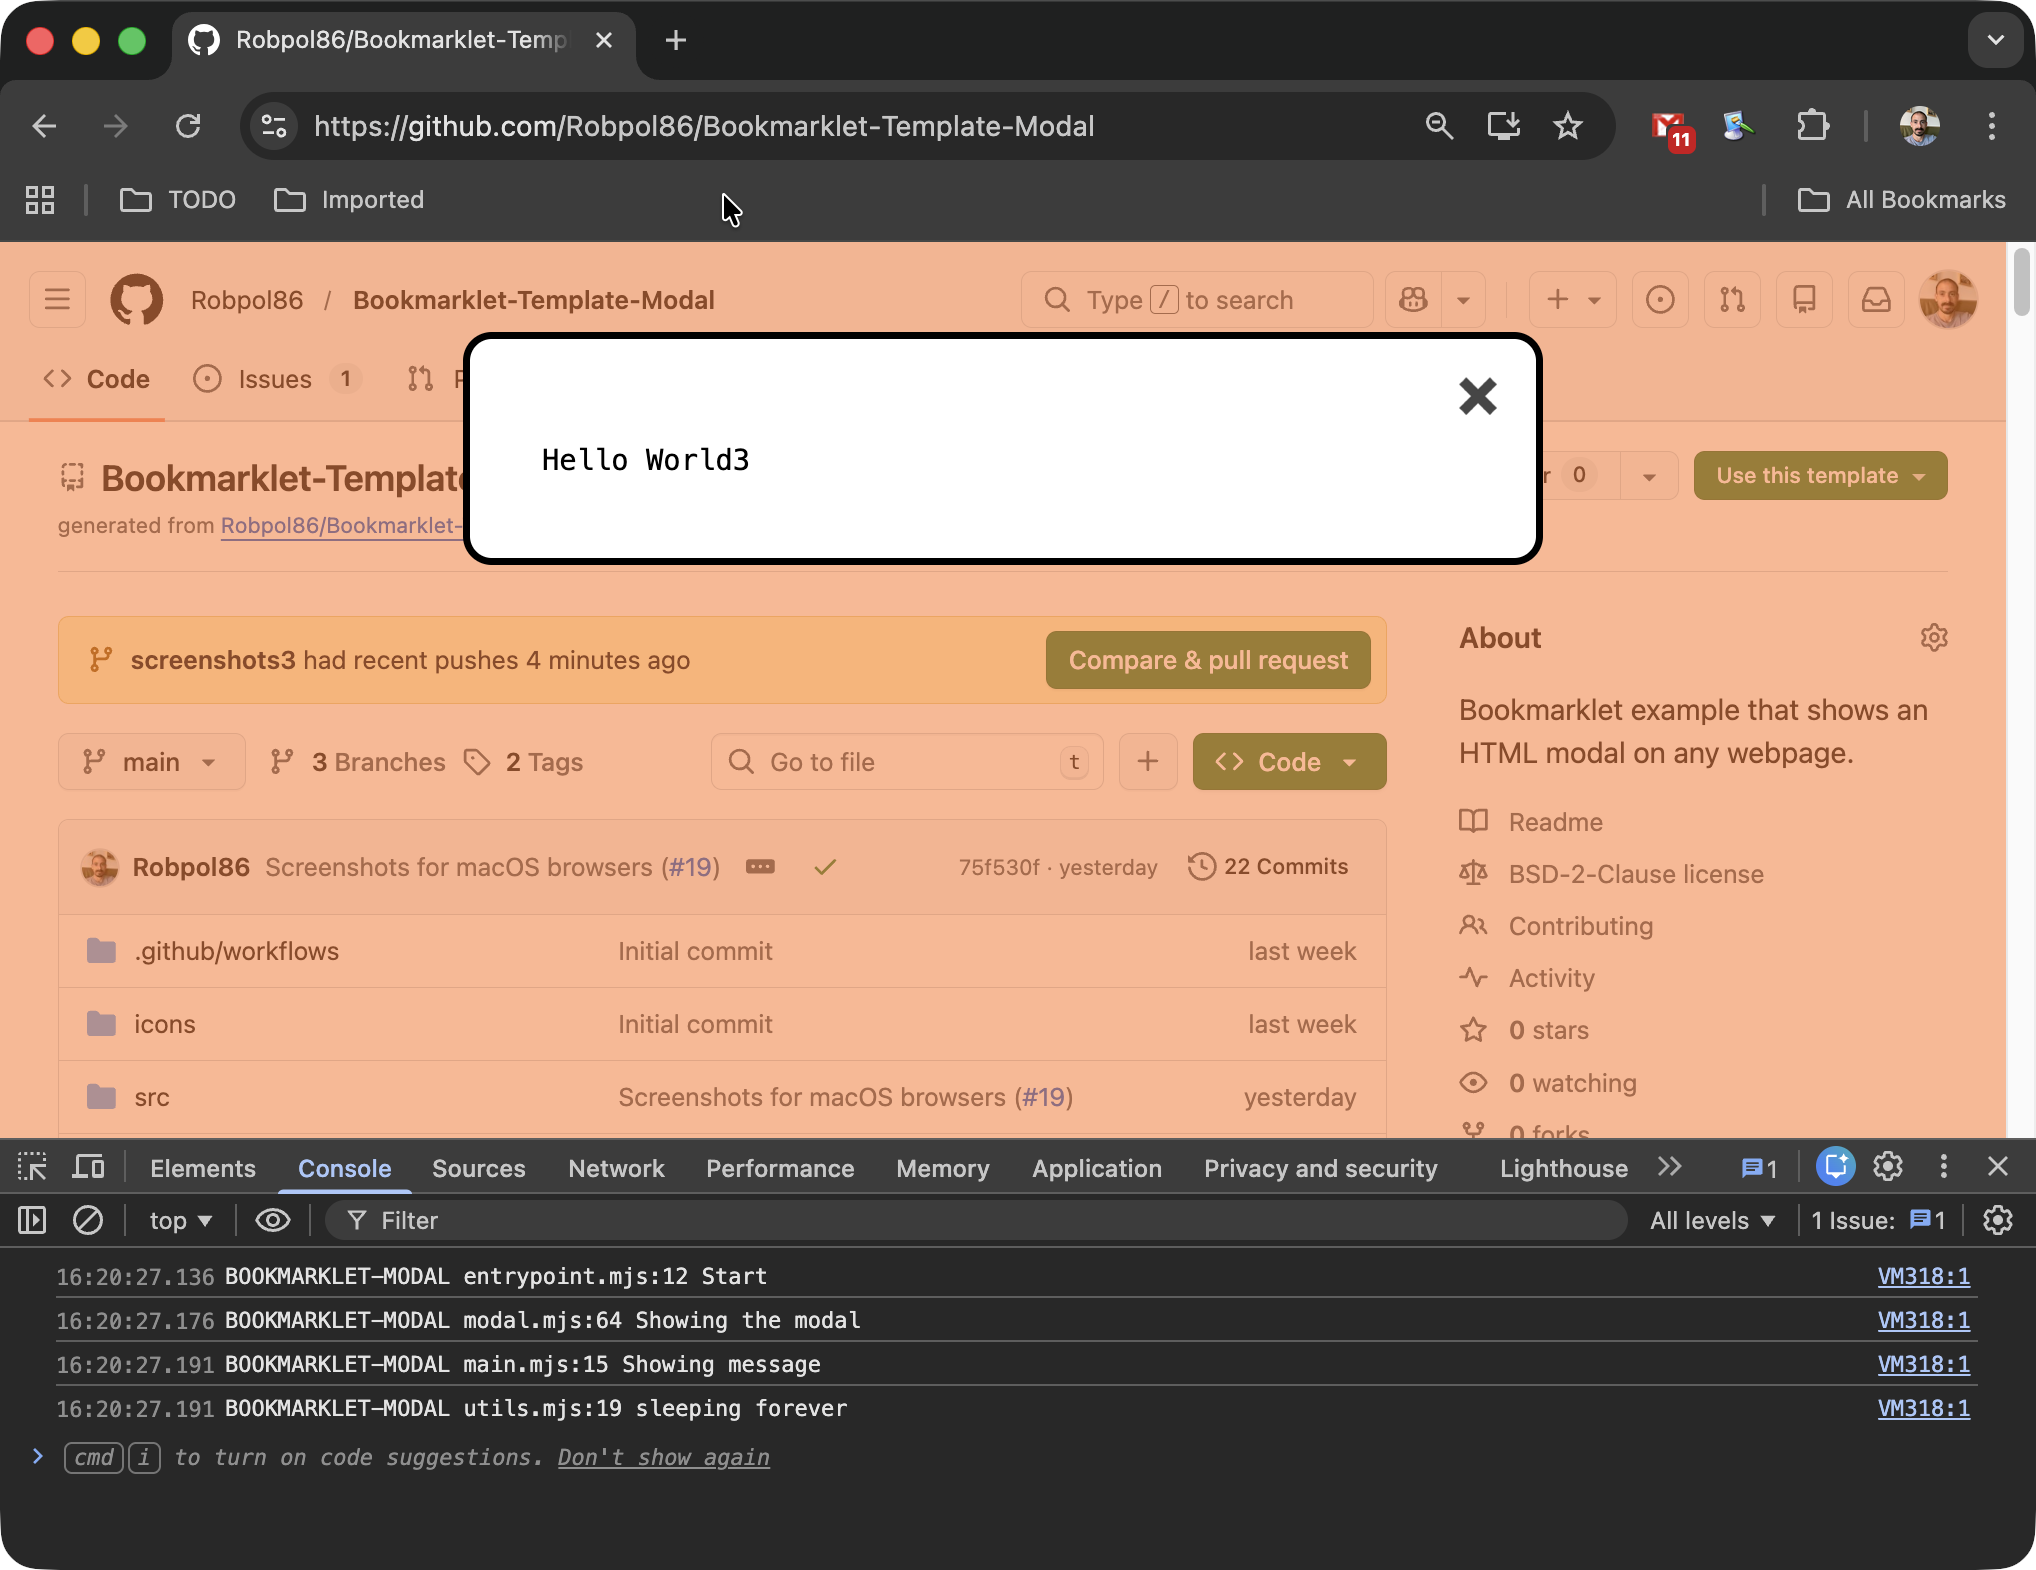
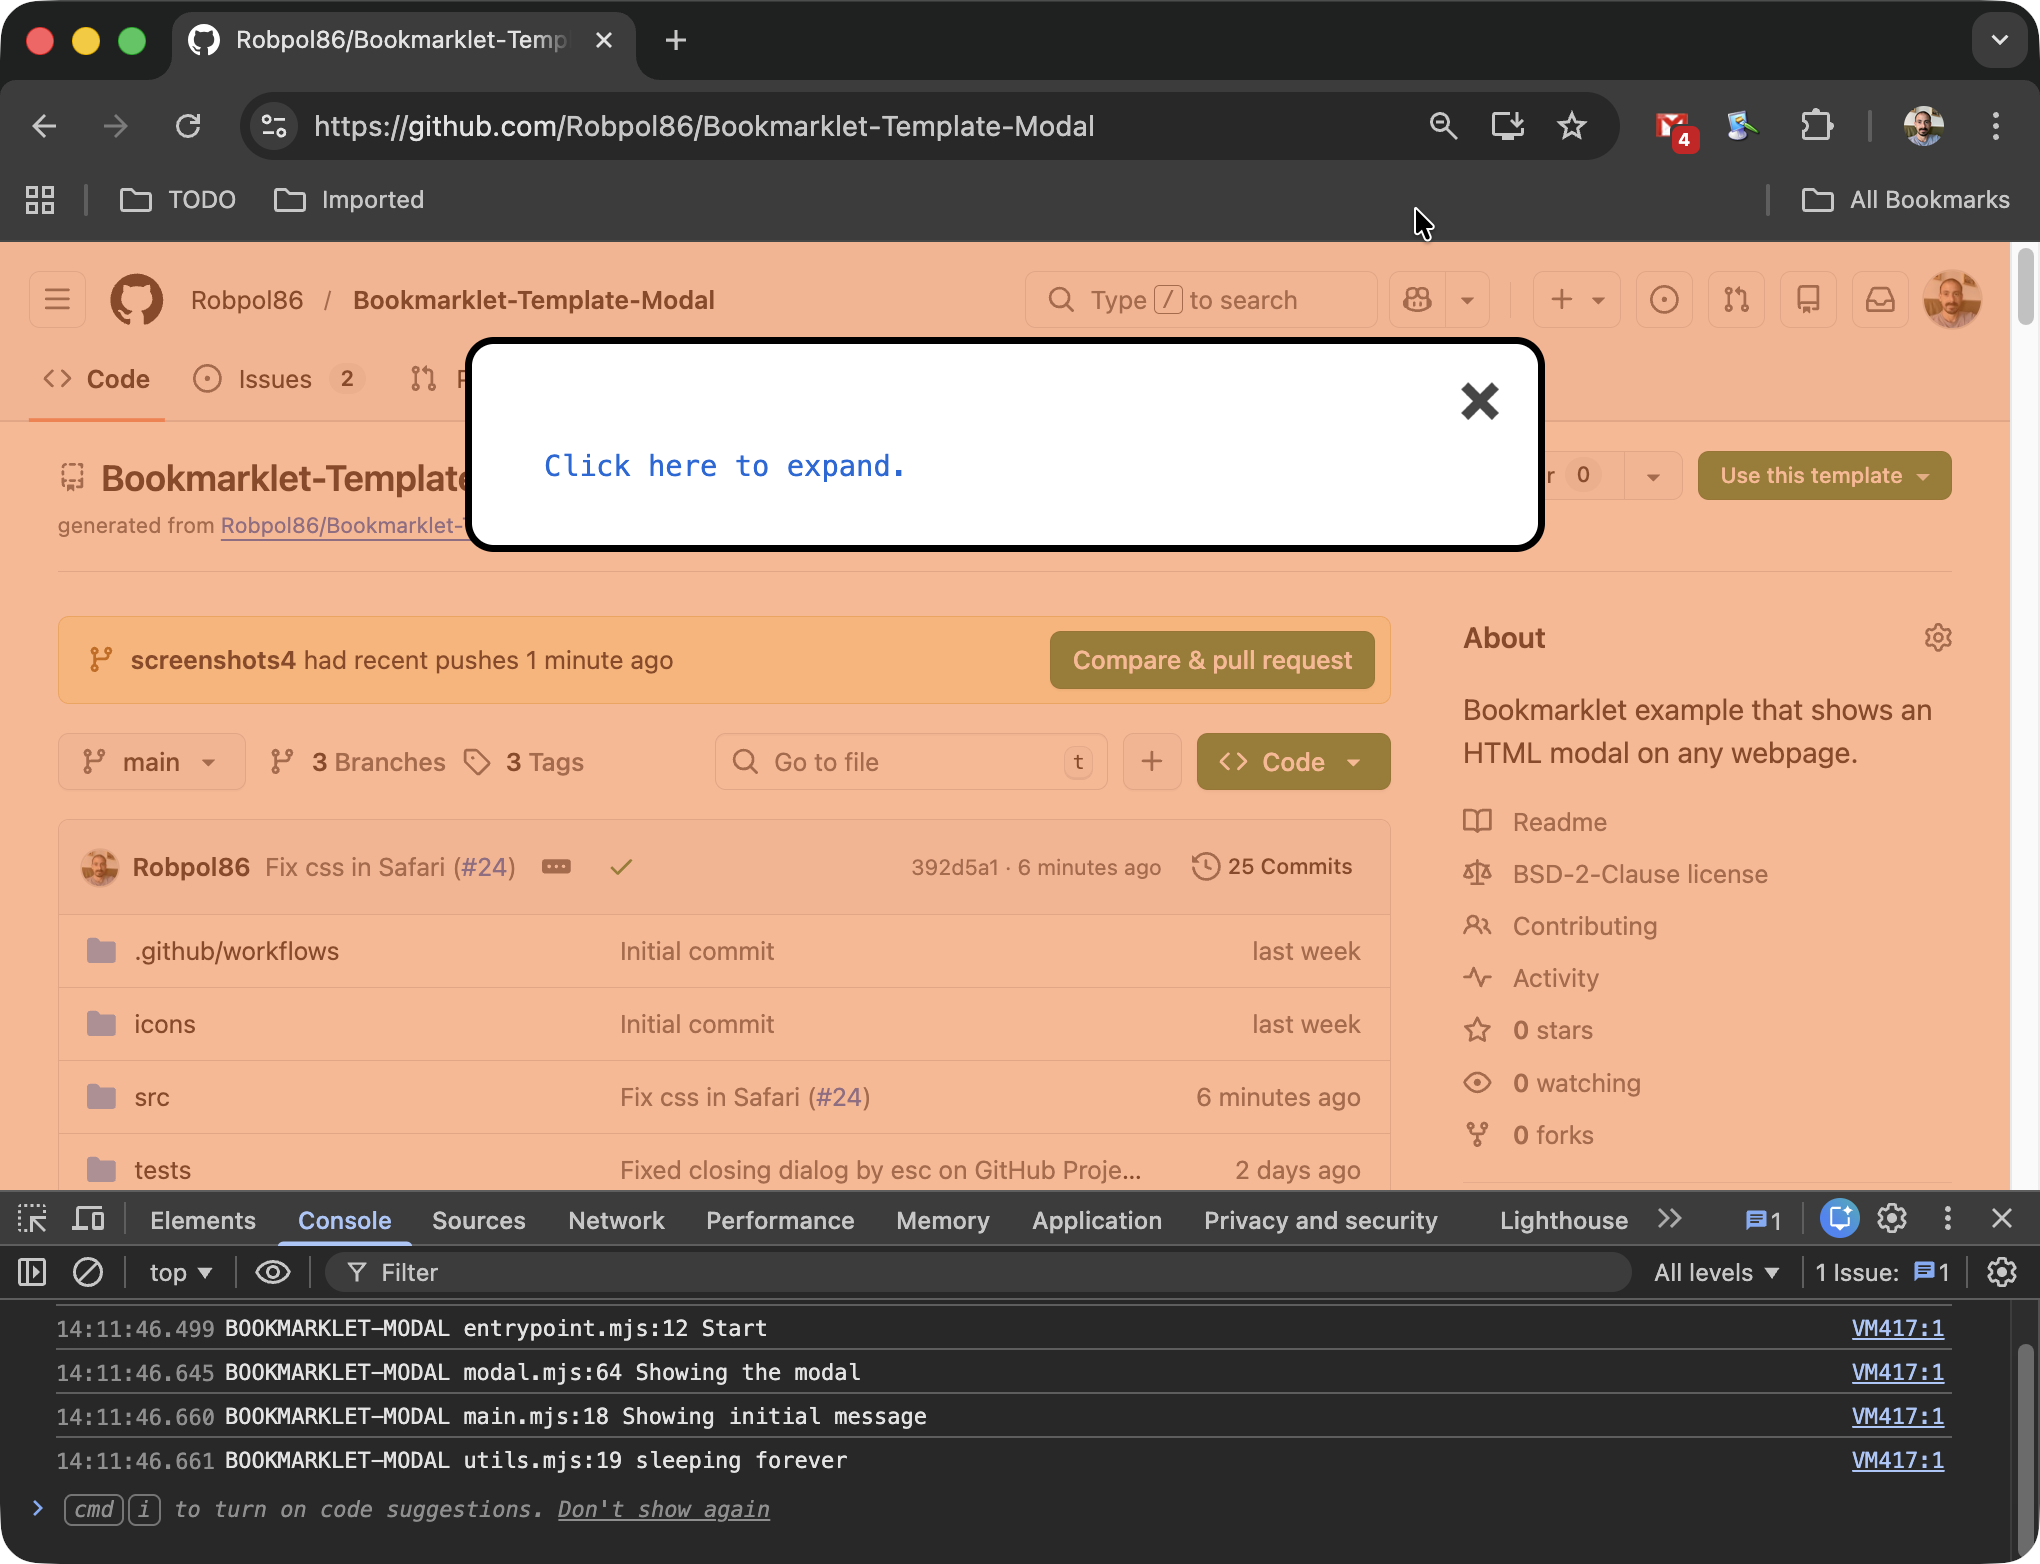
Updating all screenshots; renaming (#25)
* Renaming for ellipses

* New desktop screenshots

* iPhone gif

* br

* Android

* new gif

* new ss

* done with todos, not doing codecov

diff --git a/README.md b/README.md
@@ -9,12 +9,14 @@ This is how I structure all my one-off [bookmarklets](https://en.wikipedia.org/w
         <td width="50%">
             <div align="center">
                 <img src="used-in-chrome-macos.png" alt="Used in Chrome on macOS" />
+                <br>
                 <em>Used in Chrome on macOS</em>
             </div>
         </td>
         <td width="50%">
             <div align="center">
                 <img src="used-in-firefox-macos.png" alt="Used in Firefox on macOS" />
+                <br>
                 <em>Used in Firefox on macOS</em>
             </div>
         </td>
@@ -23,12 +25,14 @@ This is how I structure all my one-off [bookmarklets](https://en.wikipedia.org/w
         <td>
             <div align="center">
                 <img src="used-in-safari-macos.png" alt="Used in Safari on macOS" />
+                <br>
                 <em>Used in Safari on macOS</em>
             </div>
         </td>
         <td>
             <div align="center">
                 <img src="used-in-edge-win11.png" alt="Used in Edge on Windows 11" />
+                <br>
                 <em>Used in Edge on Windows 11</em>
             </div>
         </td>
@@ -36,13 +40,15 @@ This is how I structure all my one-off [bookmarklets](https://en.wikipedia.org/w
     <tr>
         <td>
             <div align="center">
-                <img src="used-in-chrome-iphone.png" alt="Used in Chrome on iPhone" />
+                <img src="used-in-chrome-iphone.gif" alt="Used in Chrome on iPhone" />
+                <br>
                 <em>Used in Chrome on iPhone</em>
             </div>
         </td>
         <td>
             <div align="center">
-                <img src="used-in-safari-iphone.png" alt="Used in Safari on iPhone" />
+                <img src="used-in-safari-iphone.gif" alt="Used in Safari on iPhone" />
+                <br>
                 <em>Used in Safari on iPhone</em>
             </div>
         </td>
@@ -50,13 +56,15 @@ This is how I structure all my one-off [bookmarklets](https://en.wikipedia.org/w
     <tr>
         <td>
             <div align="center">
-                <img src="used-in-chrome-android.png" alt="Used in Chrome on Android" />
+                <img src="used-in-chrome-android.gif" alt="Used in Chrome on Android" />
+                <br>
                 <em>Used in Chrome on Android</em>
             </div>
         </td>
         <td>
             <div align="center">
-                <img src="used-in-firefox-android.png" alt="Used in Firefox on Android" />
+                <img src="used-in-firefox-android.gif" alt="Used in Firefox on Android" />
+                <br>
                 <em>Used in Firefox on Android</em>
             </div>
         </td>
@@ -135,6 +143,3 @@ that says "Hello World".
 - Mention based on Lucas Menezes's post: https://dev.to/lucasm/amazing-native-modal-with-just-html-meet-element-4jpl
 - Revisit dir structure section
 - Revisit entire README
-- New screenshots
-- codecov and README badges like my Python repos
-    - Make GitHub Action step conditional on token variable being set, skip if not, don't fail
